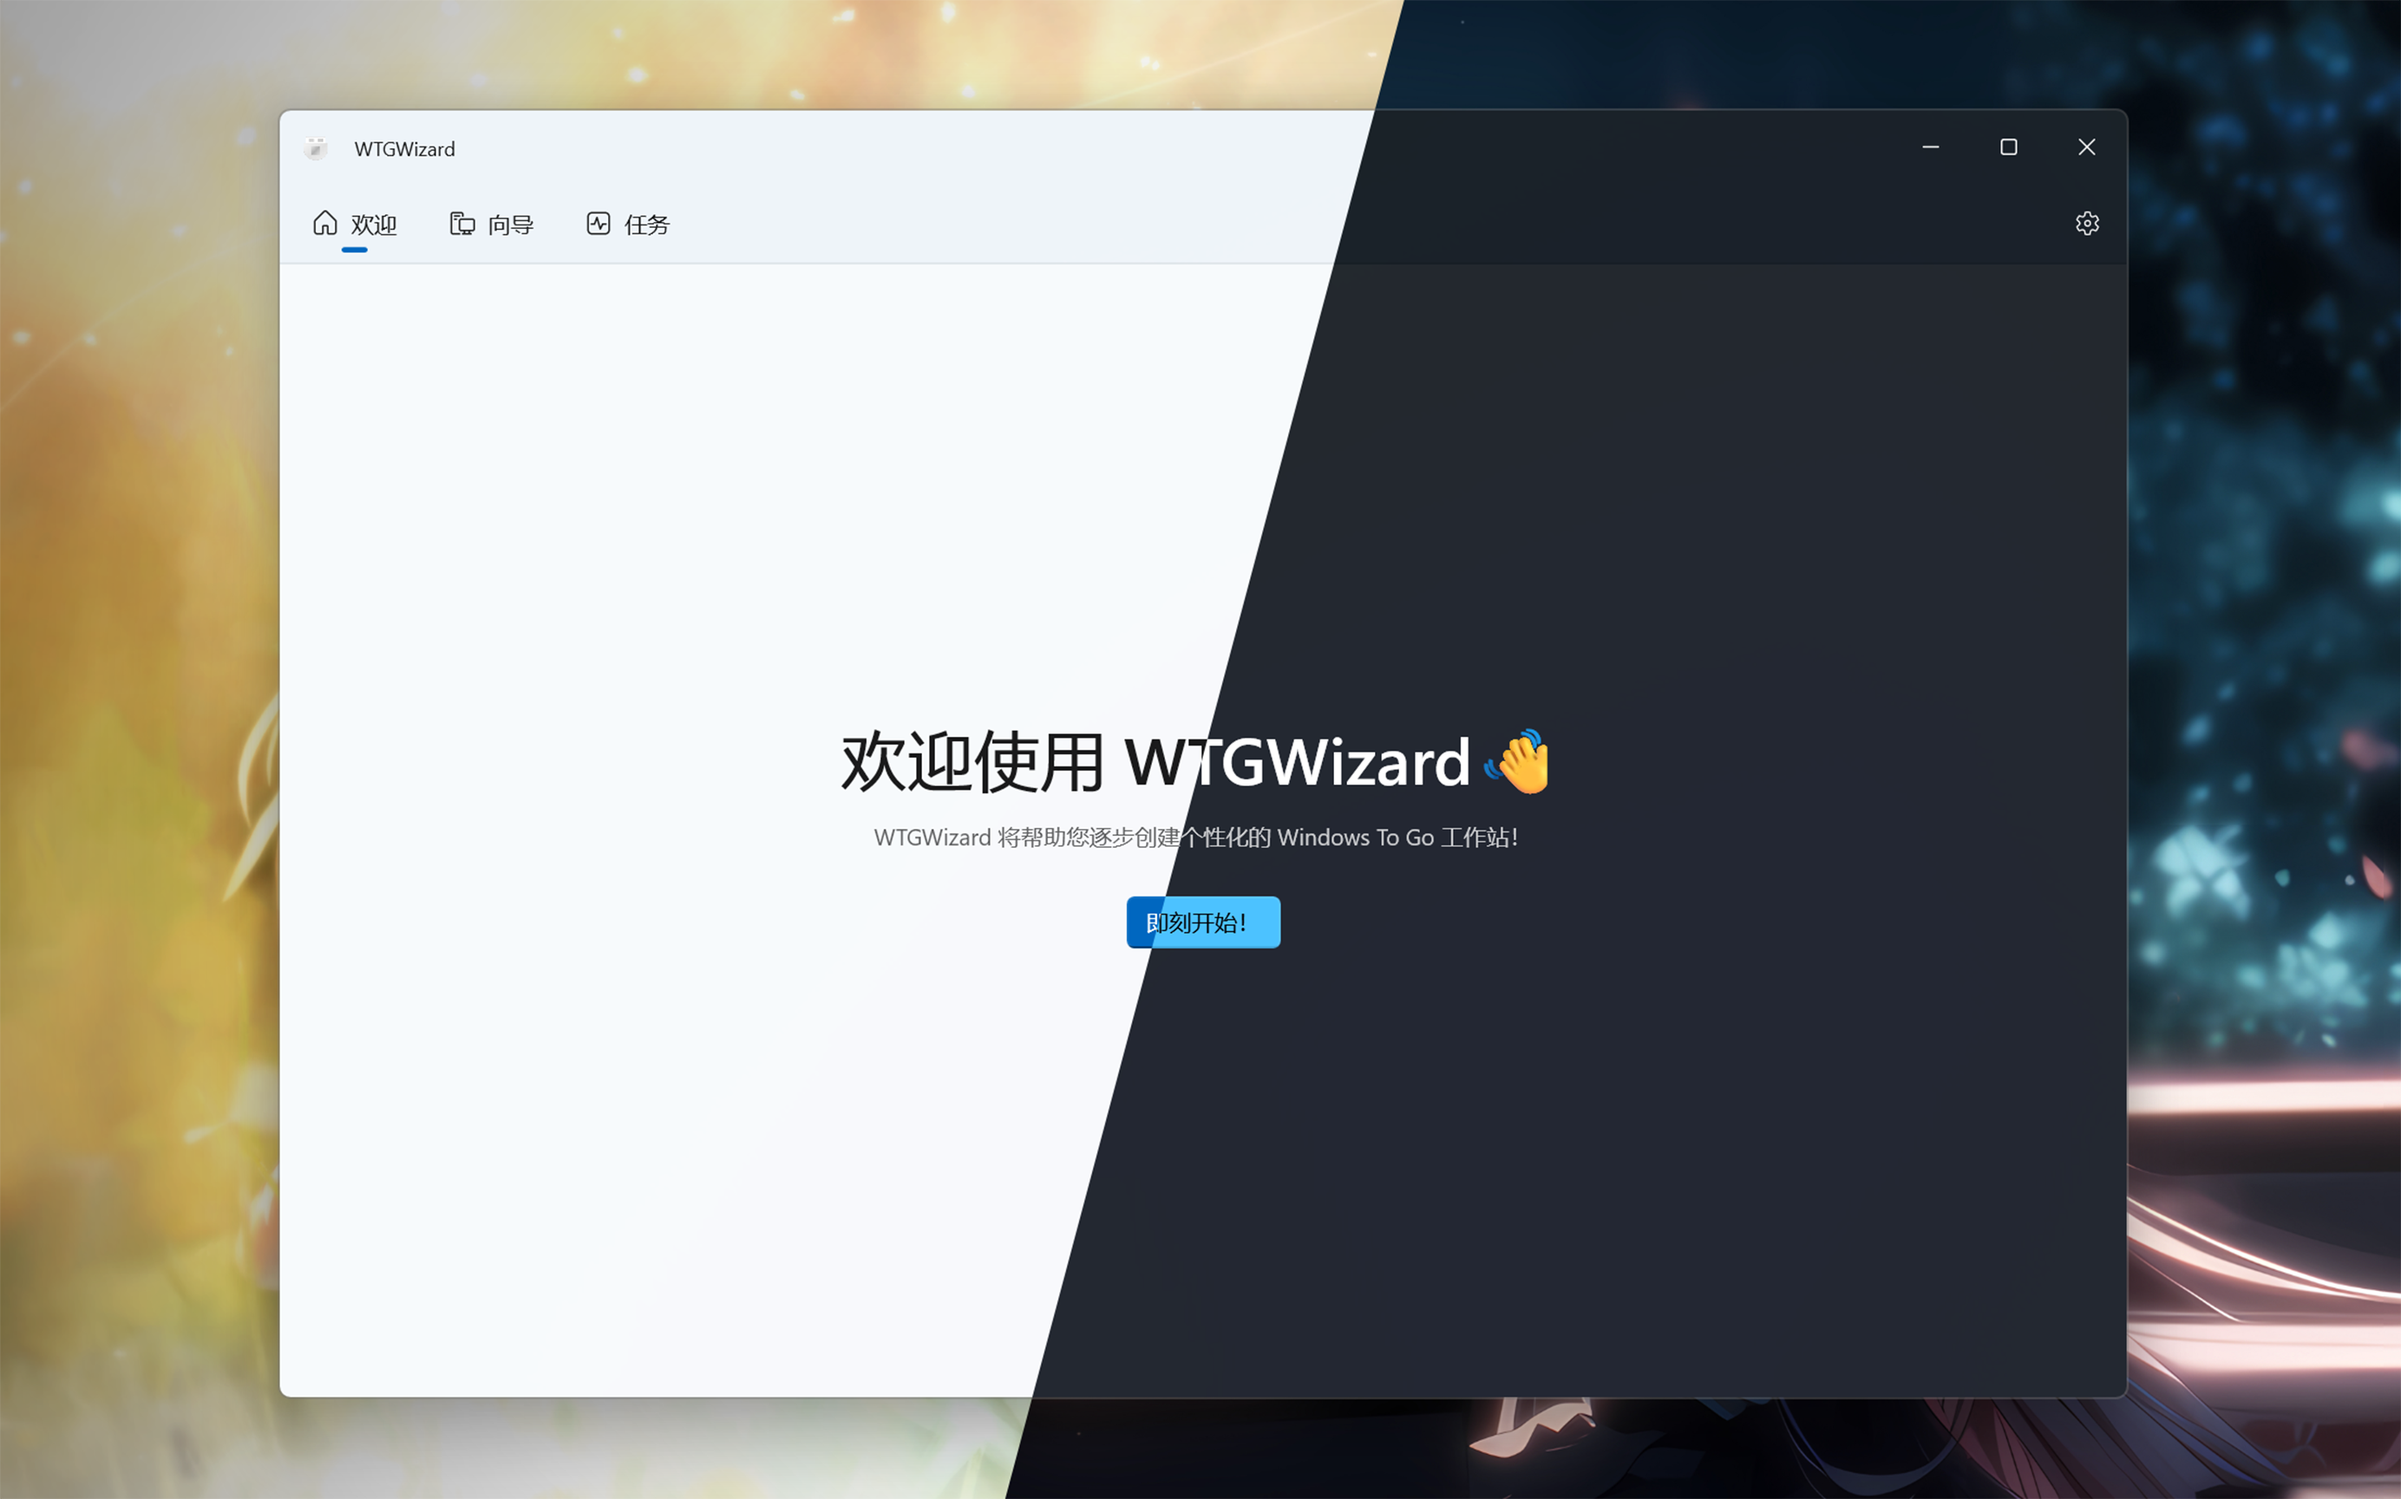
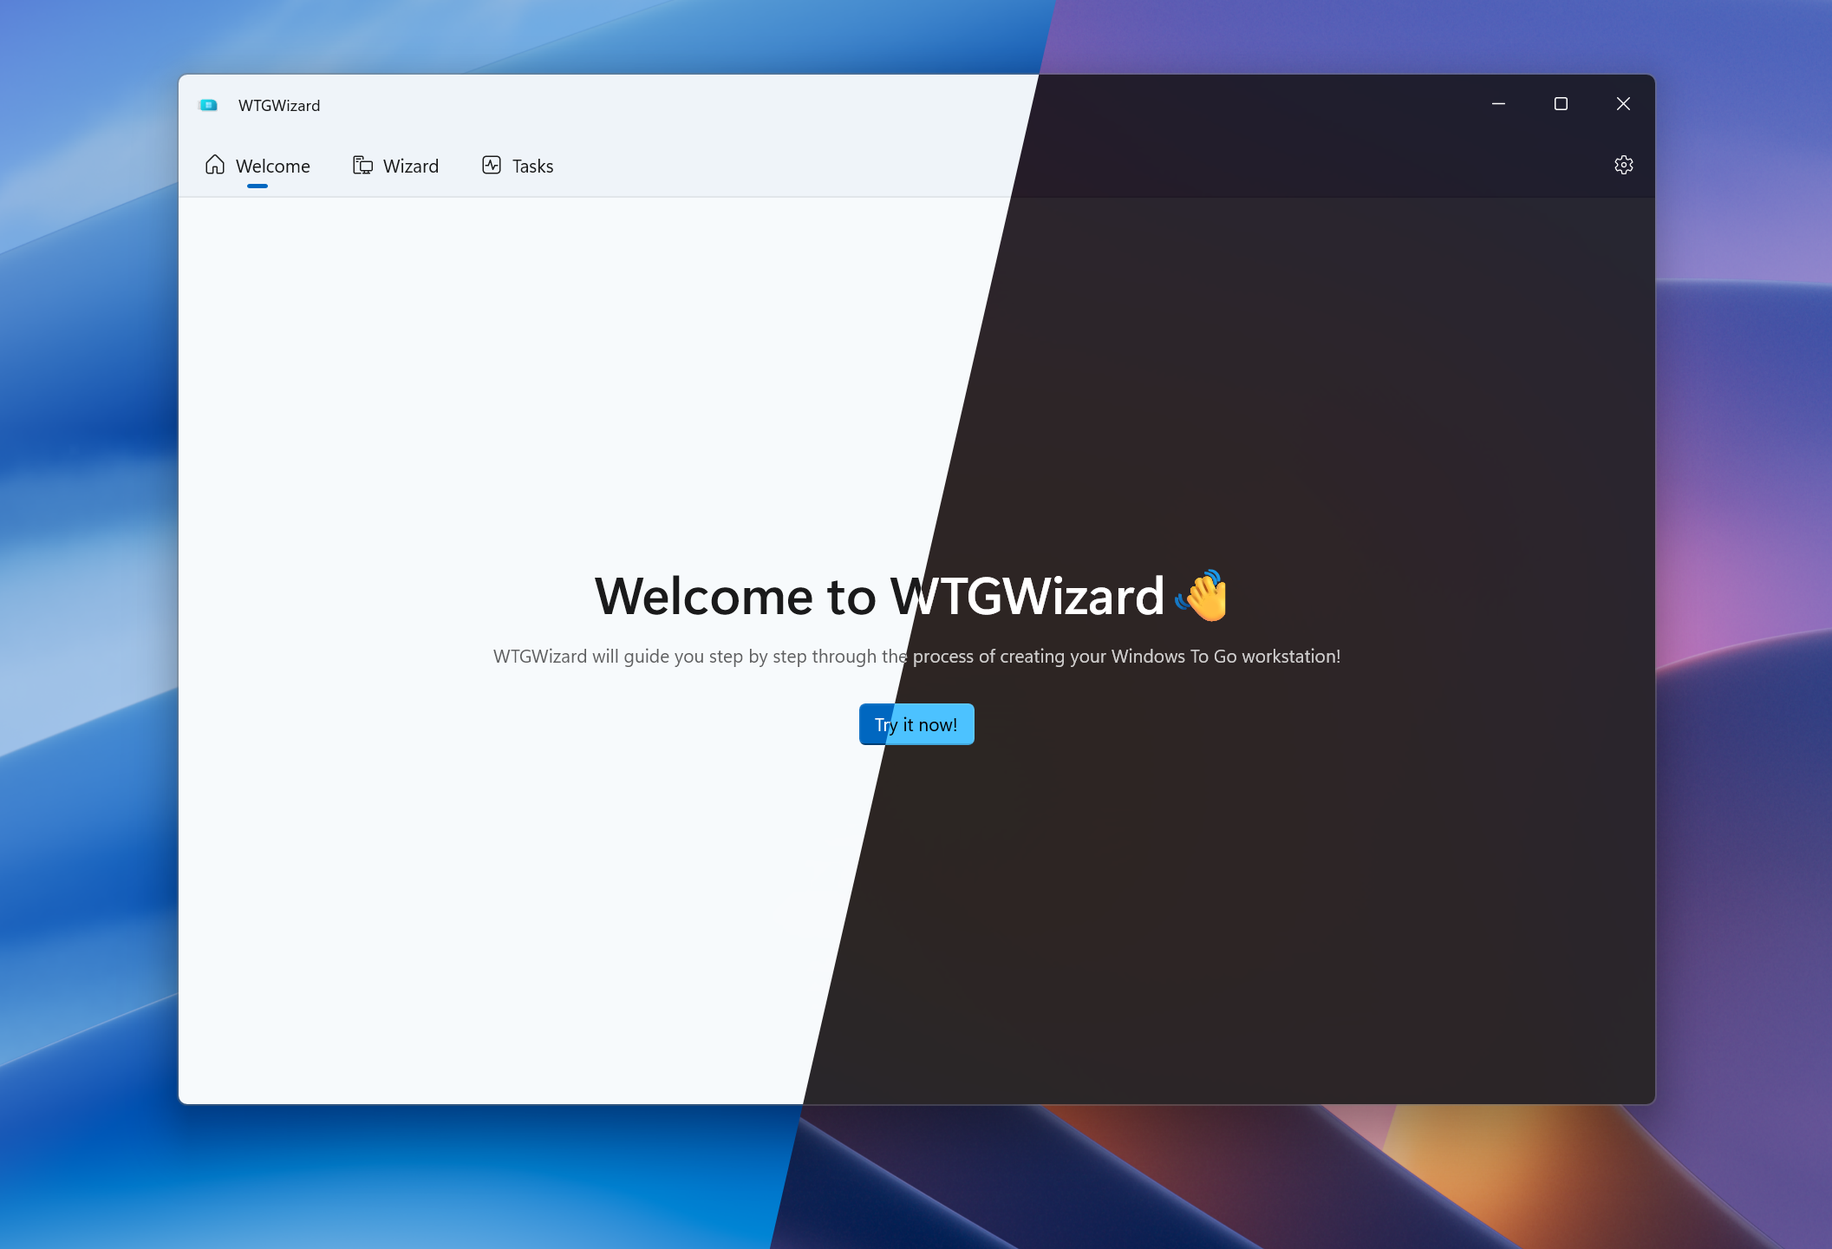
docs: Updated documents and assets.

diff --git a/docs/README.zh-CN.md b/docs/README.zh-CN.md
@@ -10,7 +10,7 @@
 
 ---
 
-![WTGWizard](../assets/screenshot-1.png)
+![WTGWizard](../assets/screenshot-1.zh-cn.png)
 
 ## 功能特性
 
